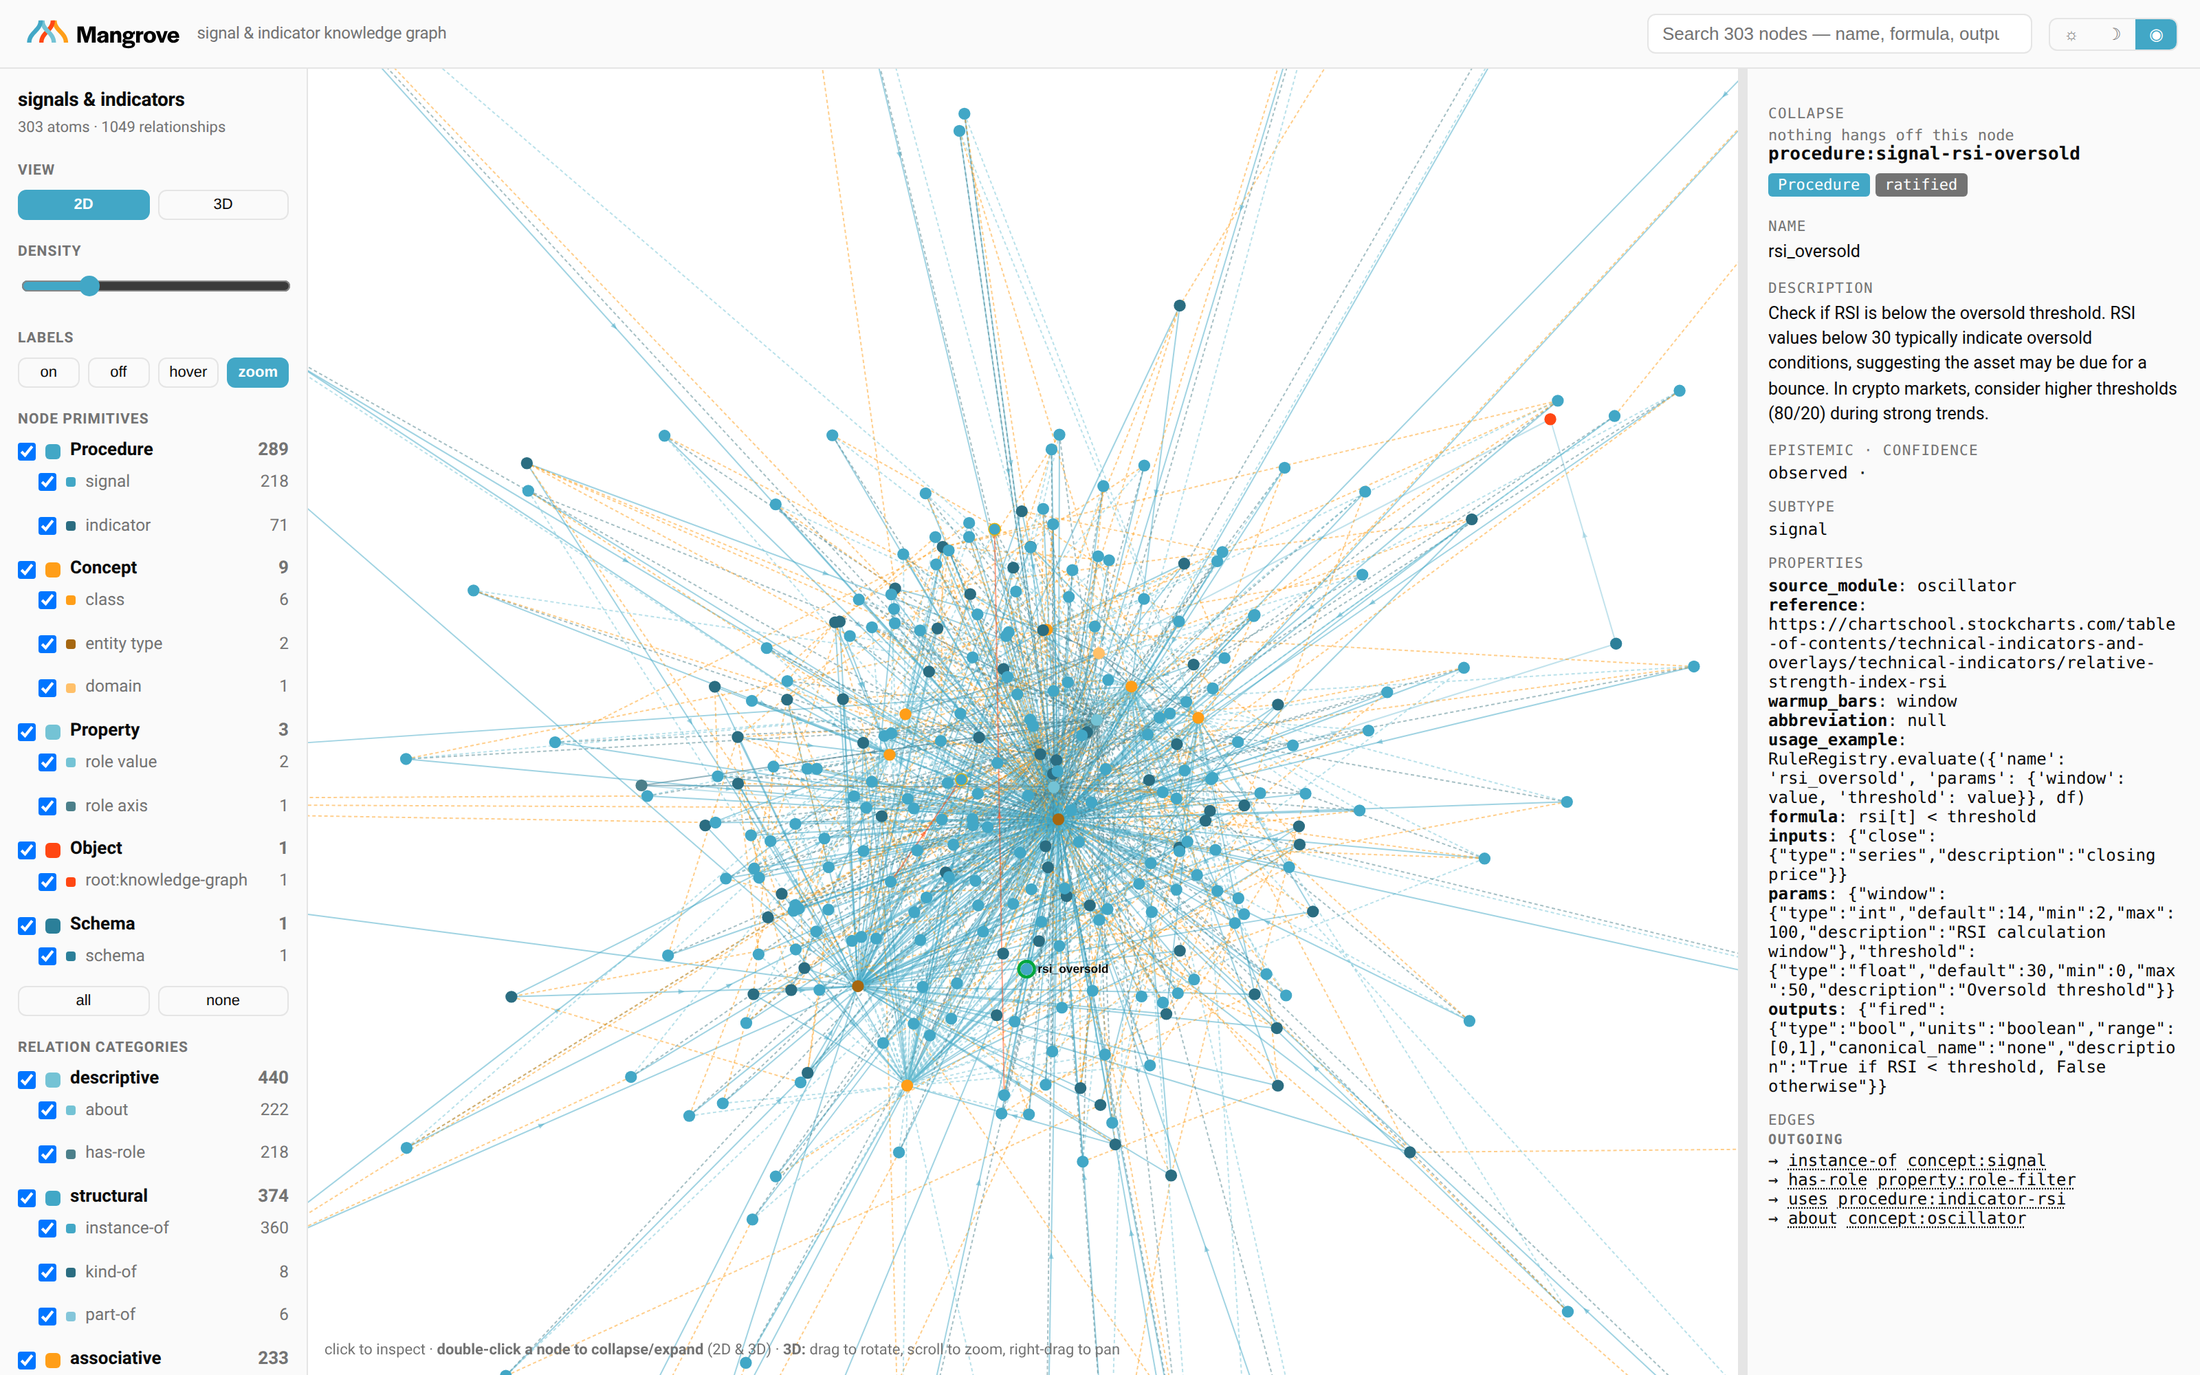
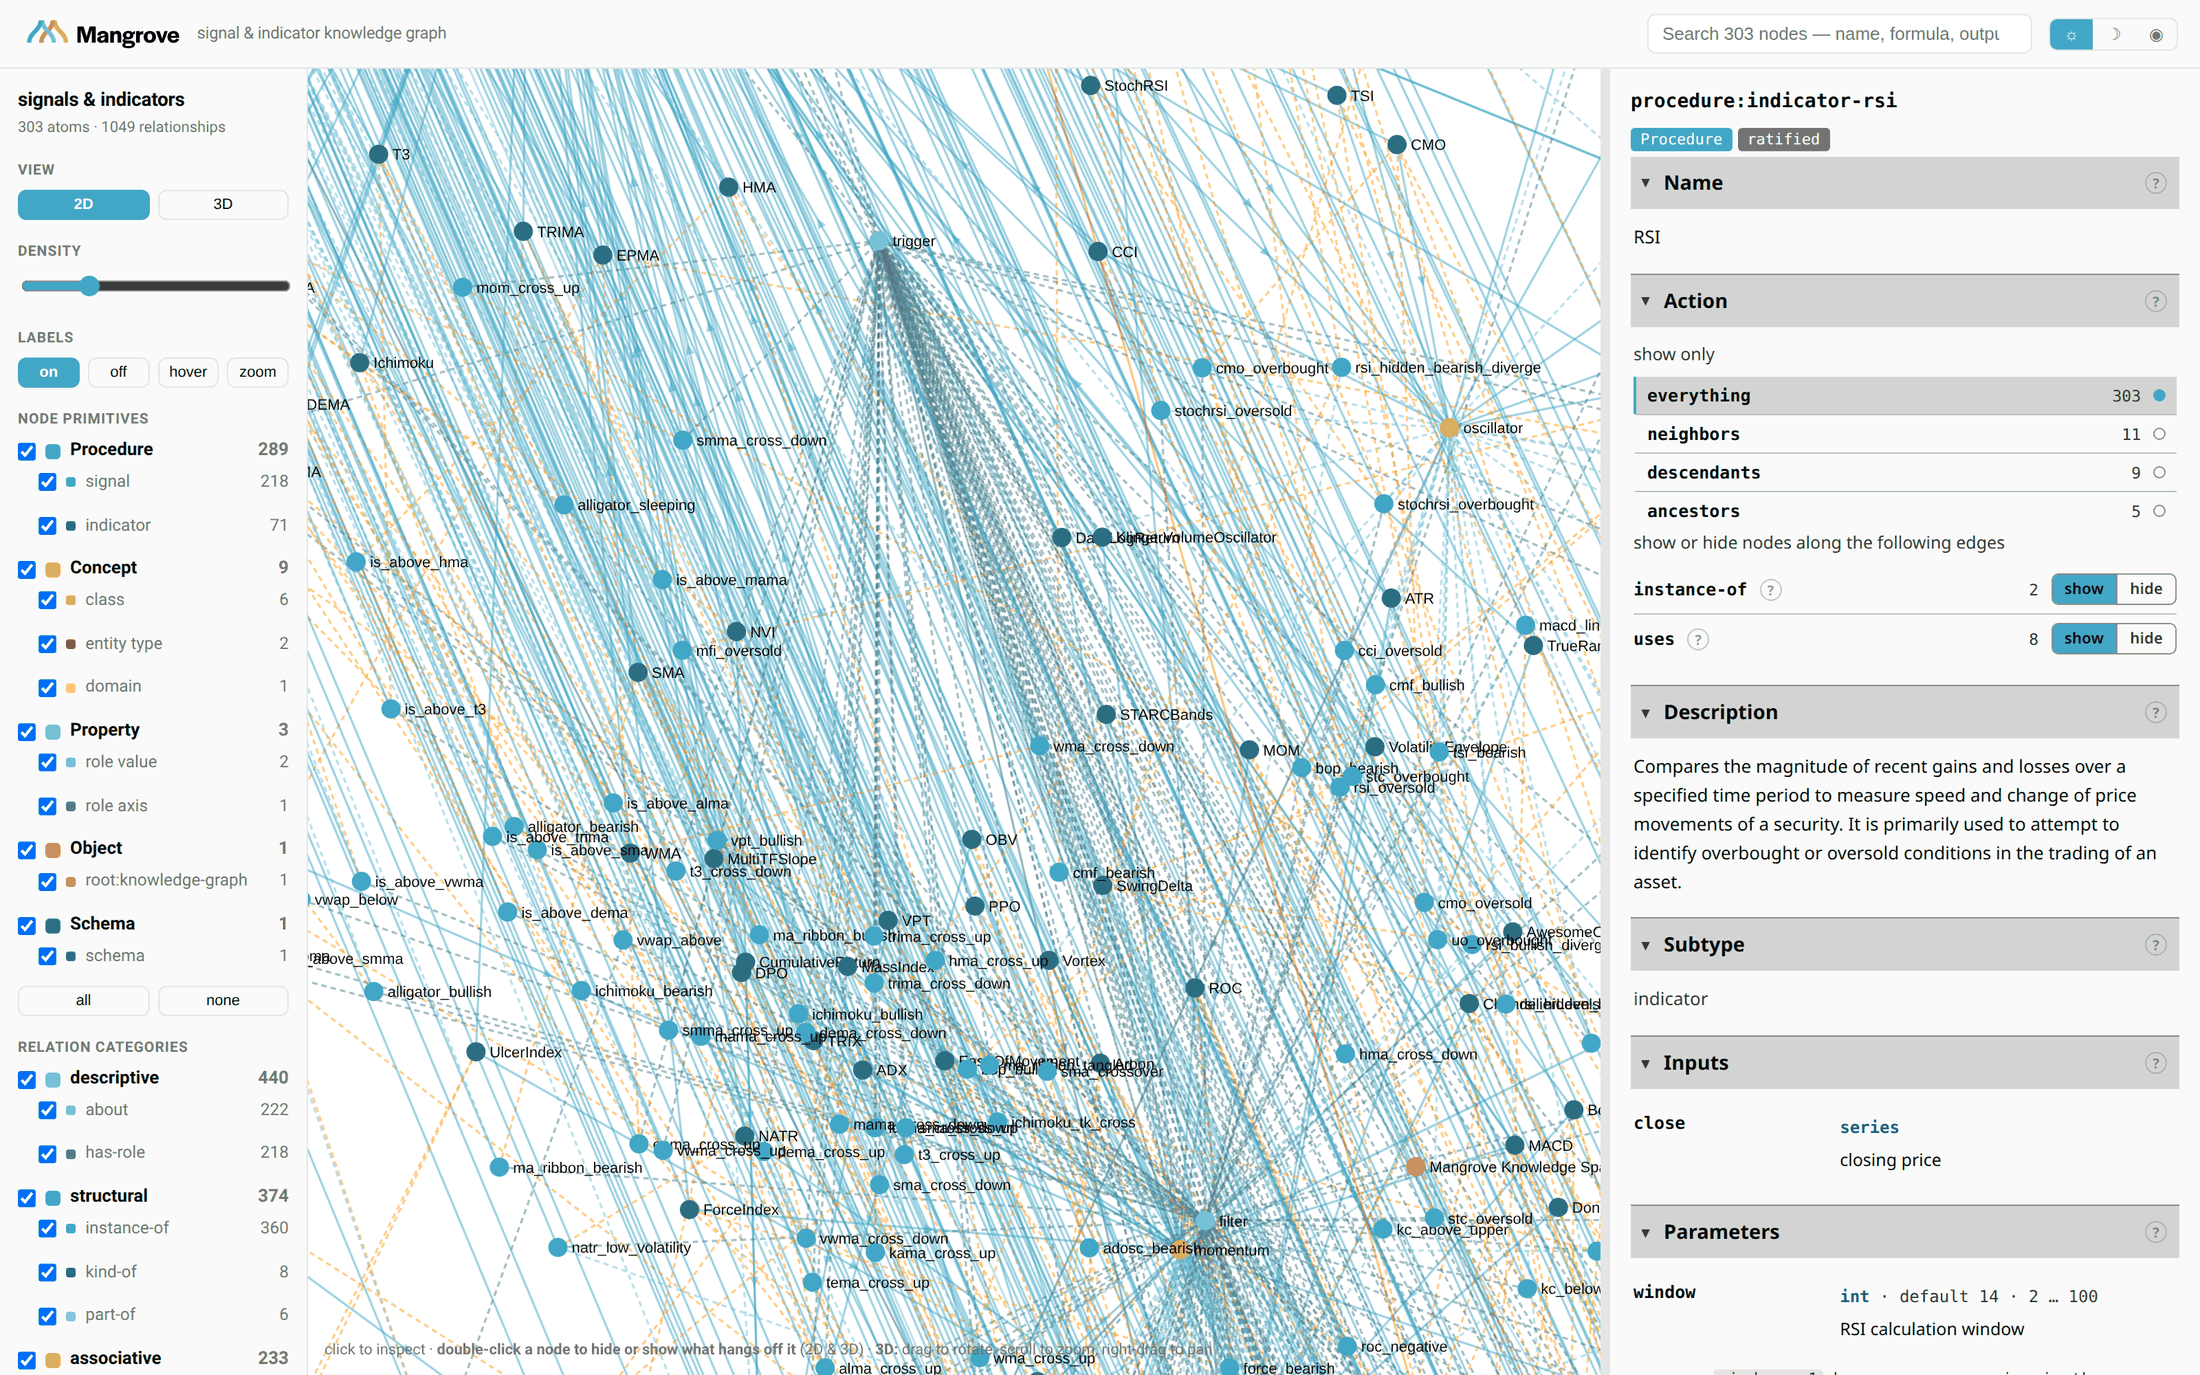
docs: current screenshots, a guide for humans, and no more image canyons
SCREENSHOTS. The panel in every shot was three weeks of work out of date -- no
sections, no Action, no tooltips, and the vocabulary in the prose still said
"collapse" where the UI now says show and hide. Retaken against the running
page, plus two new ones: the Action panel with two scopes selected and the bar
over the map reading "showing 13 of 303", and a tooltip where it renders.

THE CANYONS. viewer-facets was 340x1441 -- a ratio of 4.24, floated at 300px
wide, so it stood 1270px tall beside ten lines of text. viewer-inspector was
2.88. Recropped from the layout rather than by eye, and checked by comparing
each image's rendered height against the prose beside it:

  inspector   2.88 -> 1.30   shown 330x430 beside ~264px of text
  facets      4.24 -> 1.34   shown 260x348 beside ~240px
  search      1.39 -> 0.77   shown 420x325 beside ~168px

Assets also went from 3.93MB to 1.99MB: the hero was 4.8MB at 2x scale before
being resized, and UI screenshots are flat colour, so a 256-colour palette is
visually identical at a third of the weight.

A GUIDE FOR PEOPLE -- docs/viewer-guide.md. The existing GUIDE.md is thirteen
worked tasks for an agent driving the Python API; nothing explained the
interface to someone who just opened the page. Plain language, and measured
rather than assumed: Flesch-Kincaid grade 6.9, under the 8th-grade target.

Plain is not the same as remedial. The first draft opened "This guide is for
[…]

diff --git a/README.md b/README.md
@@ -32,7 +32,7 @@ about the code as it is.
 ![The knowledge graph viewer, with the rsi_oversold signal selected](assets/graph-viewer.png)
 
 *The bundled viewer (`python -m mangrove_kb.viz`): click any node to read what it computes and walk
-its edges. [Interface guide below](#the-viewer).*
+its edges. [Interface guide](docs/viewer-guide.md) · [what each part does](#the-viewer).*
 
 ## Contents
 
@@ -48,10 +48,11 @@ its edges. [Interface guide below](#the-viewer).*
   - [The tools](#the-tools)
 - [The model in 30 seconds](#the-model-in-30-seconds)
 - [The viewer](#the-viewer)
+  - [The inspector — what a node actually carries](#the-inspector--what-a-node-actually-carries)
+  - [The Action panel — trim the graph to the question](#the-action-panel--trim-the-graph-to-the-question)
   - [The rail — two-level filters](#the-rail--two-level-filters)
   - [Search — ranked, and it tells you why](#search--ranked-and-it-tells-you-why)
-  - [The inspector — what a node actually carries](#the-inspector--what-a-node-actually-carries)
-  - [2D, 3D, and collapse](#2d-3d-and-collapse)
+  - [2D and 3D](#2d-and-3d)
 - [What is in the graph, and what is not](#what-is-in-the-graph-and-what-is-not)
 - [Repository structure](#repository-structure)
 - [Development](#development)
@@ -219,11 +220,47 @@ you can plan a traversal against what exists rather than discovering emptiness o
 ## The viewer
 
 `python -m mangrove_kb.viz > graph.html` writes one self-contained page: the whole graph in 2D and
-3D, filterable, searchable, with every node's authored detail one click away.
+3D, filterable, searchable, with every node's authored detail one click away. There is a
+**[plain-language interface guide](docs/viewer-guide.md)** if you would rather read than poke.
+
+### The inspector — what a node actually carries
+
+<img src="assets/viewer-inspector.png" alt="The inspector showing BollingerBands: folded sections, then Inputs, Parameters and Outputs as tables" width="330" align="right">
+
+Click any node or edge to pin its detail. Every field the library authored is here: description,
+`formula`, `warmup_bars`, `reference`, `usage_example`, and **inputs, parameters and outputs as
+tables** — each with its type, default, units and range, rather than a wall of JSON.
+
+Sections **fold**, and the choice sticks: fold `Edges` once and it stays folded on the next node.
+Each heading carries a **?** explaining what it holds, as does each edge type — `about` and
+`instance-of` are different claims, and the panel says so.
+
+Ranges are read carefully. `≥ 0` is floored, `unbounded` is a stated infinity, and `not authored` is
+a gap in the notes — three different facts that `JSON.stringify` used to render identically.
+
+**Traps worth knowing.** `warmup_bars` is an *expression* in the node's own parameters
+(`window * 3 - 1`), not a number. And units are heterogeneous by design: a percentage, a price and
+an index number are different things and are labelled differently.
+
+<br clear="right">
+
+### The Action panel — trim the graph to the question
+
+<p align="center">
+  <img src="assets/viewer-action.png" alt="The Action section with neighbors and ancestors both selected, and a bar over the map reading 'showing 13 of 303'" width="100%">
+</p>
+
+303 nodes at once is a picture, not an answer. **show only** keeps `neighbors`, `descendants`,
+`ancestors` — or any combination of them — around the selected node, with the resulting node count
+on every choice *before* you click. **show or hide** does the same one edge type at a time.
+
+The two compose: an edge type set to hide is dropped from the lineage walk as well, so the counts
+above change to match. A bar over the map says how much is in view and how to get back; `Esc` clears
+it, and clearing returns the view you had rather than refitting the whole graph.
 
 ### The rail — two-level filters
 
-<img src="assets/viewer-facets.png" alt="The filter rail, showing node primitives and relation categories each split into sub-kinds" width="300" align="right">
+<img src="assets/viewer-facets.png" alt="The filter rail: Procedure splits into signal and indicator, Concept into class, entity type and domain" width="260" align="right">
 
 Nodes group by **ontology primitive**, edges by **relation category**, and each splits into the
 derived kind beneath it — so `signal` and `indicator` are separable inside `Procedure`, and `about`
@@ -257,34 +294,17 @@ rather than reimplemented in JS, and a test asserts the two agree on real querie
 
 <br clear="right">
 
-### The inspector — what a node actually carries
-
-<img src="assets/viewer-inspector.png" alt="The inspector panel showing rsi_oversold's description, formula, params and outgoing edges" width="330" align="right">
-
-Click any node or edge to pin its full detail: description, `formula`, `warmup_bars`, `reference`,
-`usage_example`, every input and parameter with type, range and default, and every output with its
-units and range.
-
-Its edges are listed **incoming and outgoing**, and each is a link — follow one and the inspector
-moves there, with a back button to return.
-
-**Traps worth knowing.** `warmup_bars` is an *expression* in the node's own parameters (`window * 3 -
-1`), not a number — evaluate it against the params you intend to use. And units are heterogeneous by
-design: a percentage, a price and an index number are different things and are labelled differently.
-
-<br clear="right">
-
-### 2D, 3D, and collapse
+### 2D and 3D
 
 <p align="center">
   <img src="assets/viewer-3d.png" alt="The same graph in 3D" width="70%">
 </p>
 
 The **3D** view is the same graph, same filters, same inspector — drag to rotate, scroll to zoom,
-right-drag to pan. **Double-click any node in either view to collapse** everything hanging off it,
-which is how you make a hub with 218 signals hanging off it readable. A green ring marks the selected node; a yellow ring
-marks a deprecated one. Nothing else is ringed — 301 of 303 nodes are `ratified`, so marking that
-would be decoration rather than information.
+right-drag to pan. **Double-click any node in either view to hide or show what hangs off it**, which
+is how you make a hub with 218 signals attached readable. A green ring marks the selected node; a
+yellow ring marks a deprecated one. Nothing else is ringed — 301 of 303 nodes are `ratified`, so
+marking that would be decoration rather than information.
 
 ---
 

diff --git a/docs/viewer-guide.md b/docs/viewer-guide.md
@@ -1,0 +1,144 @@
+# A guide to the graph viewer
+
+The viewer draws the whole signal library as a map you can click through: what each computation
+does, what it reads, and what reads it.
+
+```bash
+python -m mangrove_kb.viz > graph.html
+```
+
+That writes one self-contained page. No server, no build step, no network.
+
+---
+
+## The three panes
+
+| Pane | Where | What it holds |
+| --- | --- | --- |
+| Rail | left | filters, by kind of node and kind of edge |
+| Map | middle | 303 nodes, 1049 edges, in 2D or 3D |
+| Panel | right | everything the library records about whatever you clicked |
+
+Nodes are indicators, signals, and the concepts that classify them. Edges are the claims that link
+them — which signal reads which indicator, what family each belongs to, what part each plays in a
+strategy.
+
+## Search
+
+The box at the top searches every authored field, not just names: formulas, interpretations,
+applications, and the names and descriptions of inputs, params and outputs.
+
+Results rank by where the match landed, and each carries a tag saying which — `NAME`, `ABBREV`,
+`SUMMARY`, `DETAIL`. So `divergence` returns the things called that before the things that merely
+mention it.
+
+## Reading a node
+
+Click a node. The panel fills with what the library records about it, in sections you can fold. Your
+choices stick: fold **Edges** once and it stays folded on every node after it.
+
+- **Inputs** — the series it reads
+- **Parameters** — each with its type, default, and the range it accepts
+- **Outputs** — each with units and the range its values can take
+- **Formula**, **Interpretation**, **Applications**, **Reference** — as authored
+- **Edges** — every link, grouped incoming and outgoing
+- **Provenance & extras** — module, a call you can copy, how the entry was recorded
+
+Every heading carries a **?** that says what that section holds. So does every edge type.
+
+### Ranges say more than they look like
+
+| Shown | Means |
+| --- | --- |
+| `0 … 100` | bounded both ways |
+| `≥ 0` | floored, no ceiling |
+| `unbounded` | `[-inf, inf]` — stated, not missing |
+| `true/false` | boolean, not a `[0,1]` interval |
+| `not authored` | nobody has written the range down |
+
+The last two rows are the ones worth knowing apart. `unbounded` is a fact about the output;
+`not authored` is a gap in the notes.
+
+### Warm-up is an expression
+
+**Warm-up** is how many bars the computation needs before its output means anything, and it is
+usually written in terms of the node's own parameters — `window - 1`, `window_slow + window_sign - 1`.
+Evaluate it against the parameters you intend to use.
+
+## Following the graph
+
+Every name under **Edges** is a link: click it and the panel moves there, with a **back** button to
+return. What each edge type asserts:
+
+| Edge | Claim |
+| --- | --- |
+| `instance-of` | this indicator measures that family — RSI measures momentum |
+| `about` | this signal is concerned with that family without measuring it |
+| `uses` | this reads that one, and carries which of its outputs flow in |
+| `has-role` | the part it plays in a strategy: trigger or filter |
+| `part-of` | a component of the other |
+| `kind-of` | a subtype of the other |
+
+`instance-of` and `about` are the pair to keep straight. An indicator produces the quantity, so it
+is an instance of the family. A signal emits a boolean, so it is *about* the family instead — and
+the `uses` edge beside it is the reason.
+
+## Trimming the graph
+
+303 nodes at once is a picture, not an answer. The **Action** section on any node cuts it down.
+
+**show only** — pick any combination:
+
+| | Keeps |
+| --- | --- |
+| everything | no trim |
+| neighbors | one hop, in or out |
+| descendants | everything built on this node |
+| ancestors | everything this node is built from |
+
+They combine: neighbors + ancestors gives you both. The count beside each says how many nodes you
+would be left with before you commit, and a choice that would leave a single node is disabled.
+
+**show or hide** — one row per edge type on this node, with its own count. Hiding a type removes
+what hangs off it. The number is exact: hide `uses` on RSI and the eight signals that read it go,
+and nothing else does.
+
+The two halves compose. An edge type set to hide is also dropped from the lineage walk above, so the
+counts change to match.
+
+While a trim is active a bar sits over the map — *showing 13 of 303 · neighbors + ancestors of RSI*
+— with a way out. **Esc** also clears it, and clearing returns you to the view you had, not to a
+fitted whole graph.
+
+Hiding a hub can leave a few nodes floating with nothing visibly joining them. That is honest: the
+thing that connected them is the thing you hid.
+
+## Getting around the map
+
+- drag to pan, scroll to zoom
+- double-click a node to hide or show what hangs off it
+- **3D** is the same graph, same filters, same panel — drag to rotate, right-drag to pan
+- **Labels** switches names on / off / on hover / on zoom. At 303 nodes, off is often clearer
+- **Density** spreads or tightens the layout
+
+## The rail
+
+Nodes group by primitive, edges by relation category, and each opens into the derived kind beneath
+it — `signal` and `indicator` inside `Procedure`, `about` and `has-role` inside `descriptive`.
+
+Sub-kinds are shades of their parent's hue rather than new colours, so a darker teal is always a
+subset of the teal above it. Parent and child are AND-ed: untick `Procedure` and every procedure
+goes, with the children greyed to show why.
+
+## Rings and themes
+
+A **green ring** marks the selected node. A **yellow ring** marks a deprecated one — it still runs,
+it just has a canonical replacement. Nothing else is ringed: 301 of 303 nodes are `ratified`, so
+marking that would be decoration.
+
+Light, dark and follow-the-system are top right, and the choice is remembered.
+
+---
+
+Everything here is also a query. See the [agent guide](../skills/knowledge-graph/GUIDE.md) and the
+[skill](../skills/knowledge-graph/SKILL.md) for the same graph from Python.

diff --git a/PKG_README.md b/PKG_README.md
@@ -177,6 +177,18 @@ kg.path("procedure:signal-adosc-bearish", "concept:momentum")   # why is it clas
 
 If you are an agent, load `SKILL.md` -- it is written for you.
 
+### Or look at it
+
+```bash
+python -m mangrove_kb.viz > graph.html
+```
+
+One self-contained page -- no server, no build step, no network -- with the whole graph in 2D and
+3D. Click a node to read what it computes; trim the view to one node's neighbors, ancestors or
+descendants; follow an edge to the thing on the other end. The
+**[interface guide](https://github.com/MangroveTechnologies/MangroveKnowledgeBase/blob/main/docs/viewer-guide.md)**
+walks through it.
+
 ## Data Format
 
 All functions expect a pandas DataFrame with lowercase OHLCV columns:
